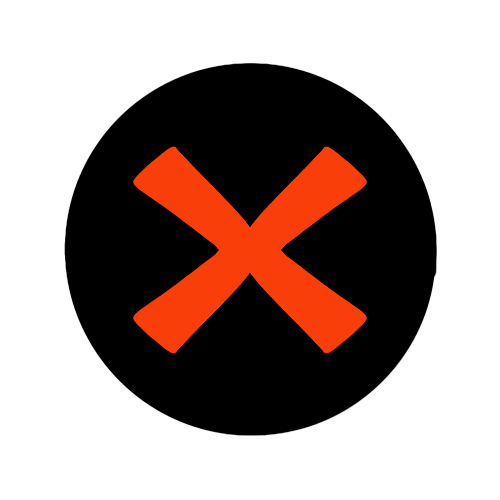
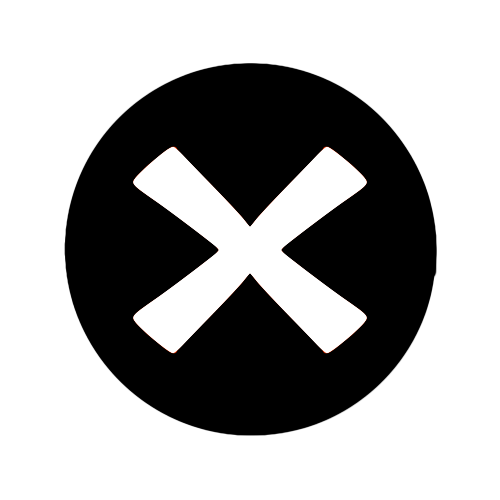
add tower placement sprite

Changed region(s): [[0.27, 0.27, 0.75, 0.72]]

diff --git a/timber/SelectionSystem.cs b/timber/SelectionSystem.cs
@@ -2,6 +2,7 @@ using Godot;
 using System;
 using System.Security.Cryptography.X509Certificates;
 using System.Collections.Generic;
+using System.Threading.Tasks;
 
 public class SelectionSystem : Node
 {
@@ -210,17 +211,13 @@ public class SelectionSystem : Node
     
     void OnEventToggleTowerPlacement(TowerManager.EventToggleTowerPlacement e)
     {
-        // active_cursor = GetNode<CSGMesh>("active_cursor_tower");
-        // active_cursor.GetNode<CSGMesh>("active_cursor_tower").Visible = true;
-        // GetNode<CSGMesh>("active_cursor").Visible = false;
+        active_cursor.GetNode<CSGMesh>("active_cursor_tower").Visible = true;
 
     }
 
     void OnEventCancelTowerPlacement(TowerManager.EventCancelTowerPlacement e)
     {
-        // active_cursor = GetNode<CSGMesh>("active_cursor");
-        // active_cursor.GetNode<CSGMesh>("active_cursor_tower").Visible = false;
-        // GetNode<CSGMesh>("active_cursor").Visible = true;
+        active_cursor.GetNode<CSGMesh>("active_cursor_tower").Visible = false;
     }
 }
 

diff --git a/timber/temp_scripts/TowerManager.cs b/timber/temp_scripts/TowerManager.cs
@@ -67,7 +67,7 @@ public class TowerManager : Node
 			ToastManager.SendToast(this, "Cannot throw a tower into the void.", ToastMessage.ToastType.Warning, 2f);
 			return;
 		}
-		// ToastManager.SendToast(this, "Tower coord: [" + cur.x + "," + cur.z + "]", ToastMessage.ToastType.Notice, 1f);
+		ToastManager.SendToast(this, "Tower coord: [" + cur.x + "," + cur.z + "]", ToastMessage.ToastType.Notice, 1f);
 		ActorConfig config = new ActorConfig();
 		config.name = "Test Tower";
 		config.map_code = 't';
@@ -82,6 +82,7 @@ public class TowerManager : Node
 			new_tower.currentTile.actor = null;
 			Grid.Get(cur).actor = new_tower;
 			new_tower.currentTile = Grid.Get(cur);
+			Grid.Get(cur).value = 't';
 		}
 	}
 	
